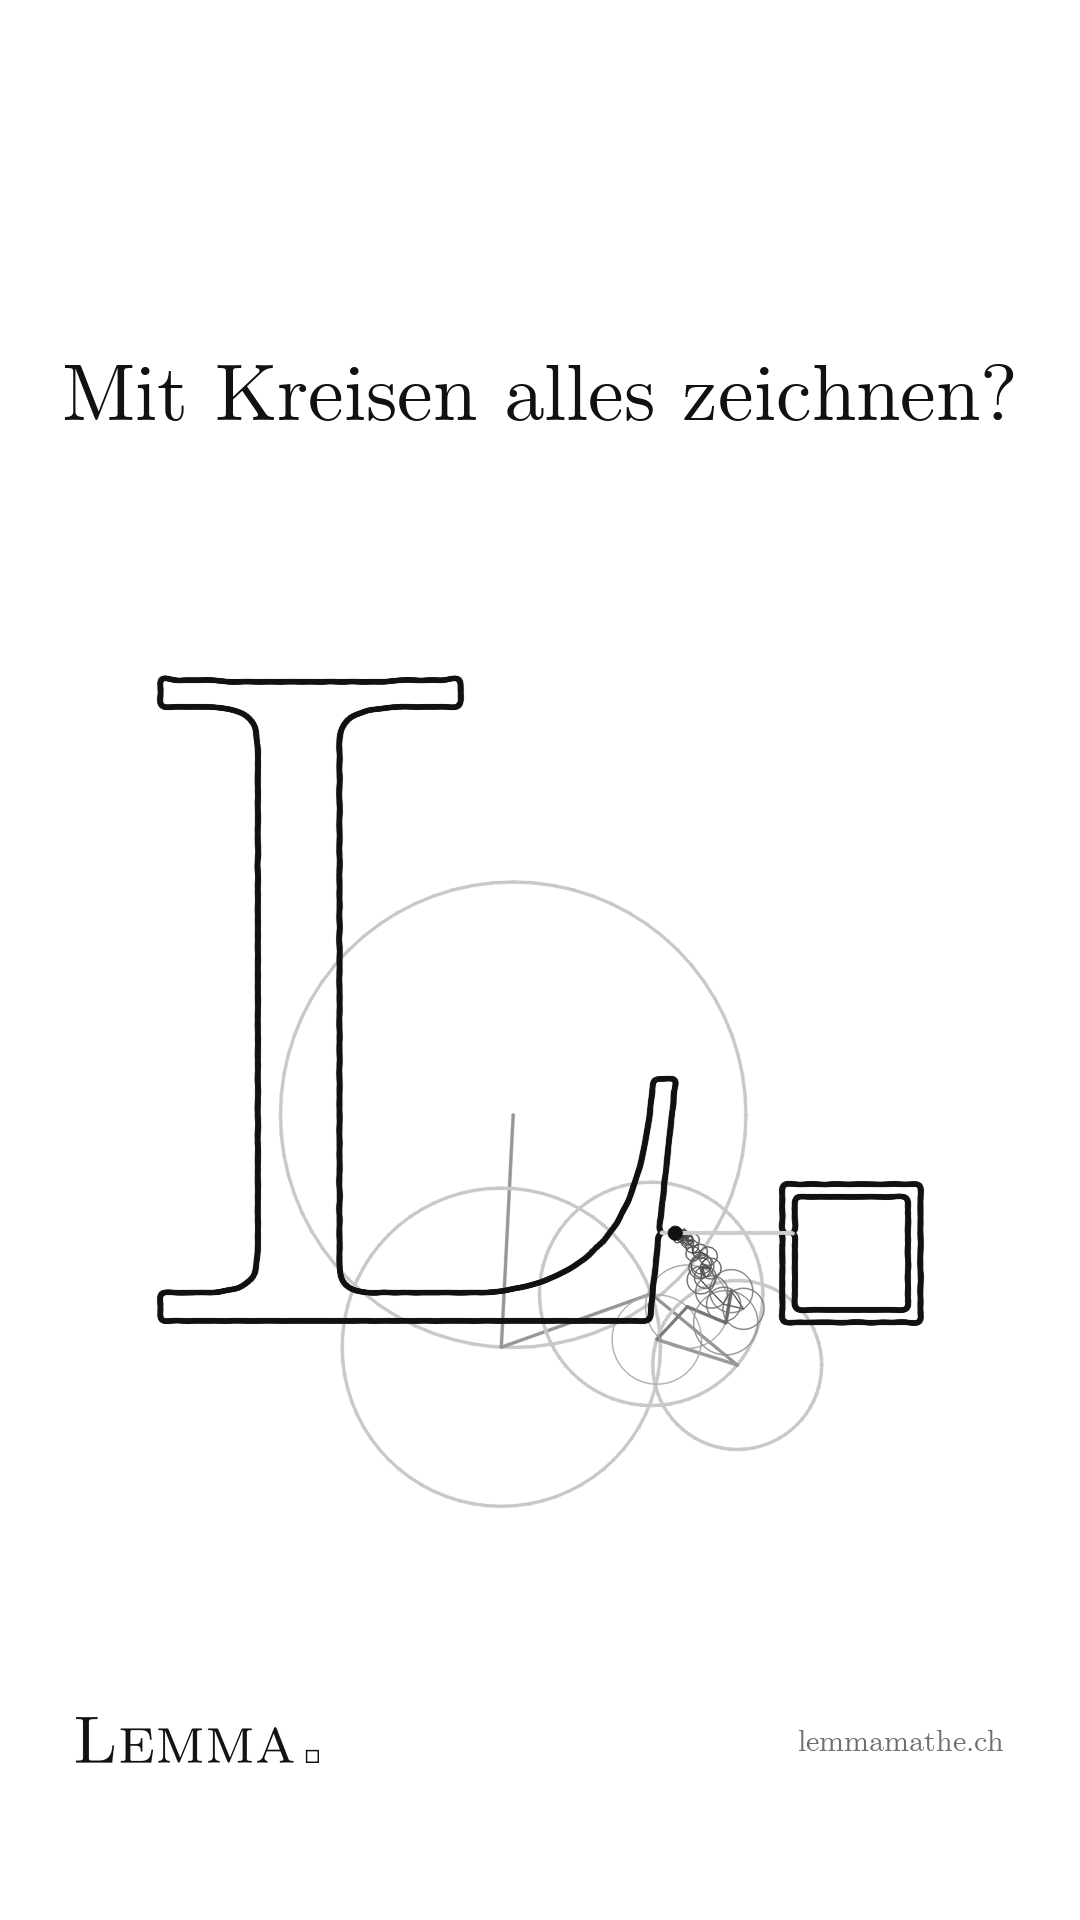
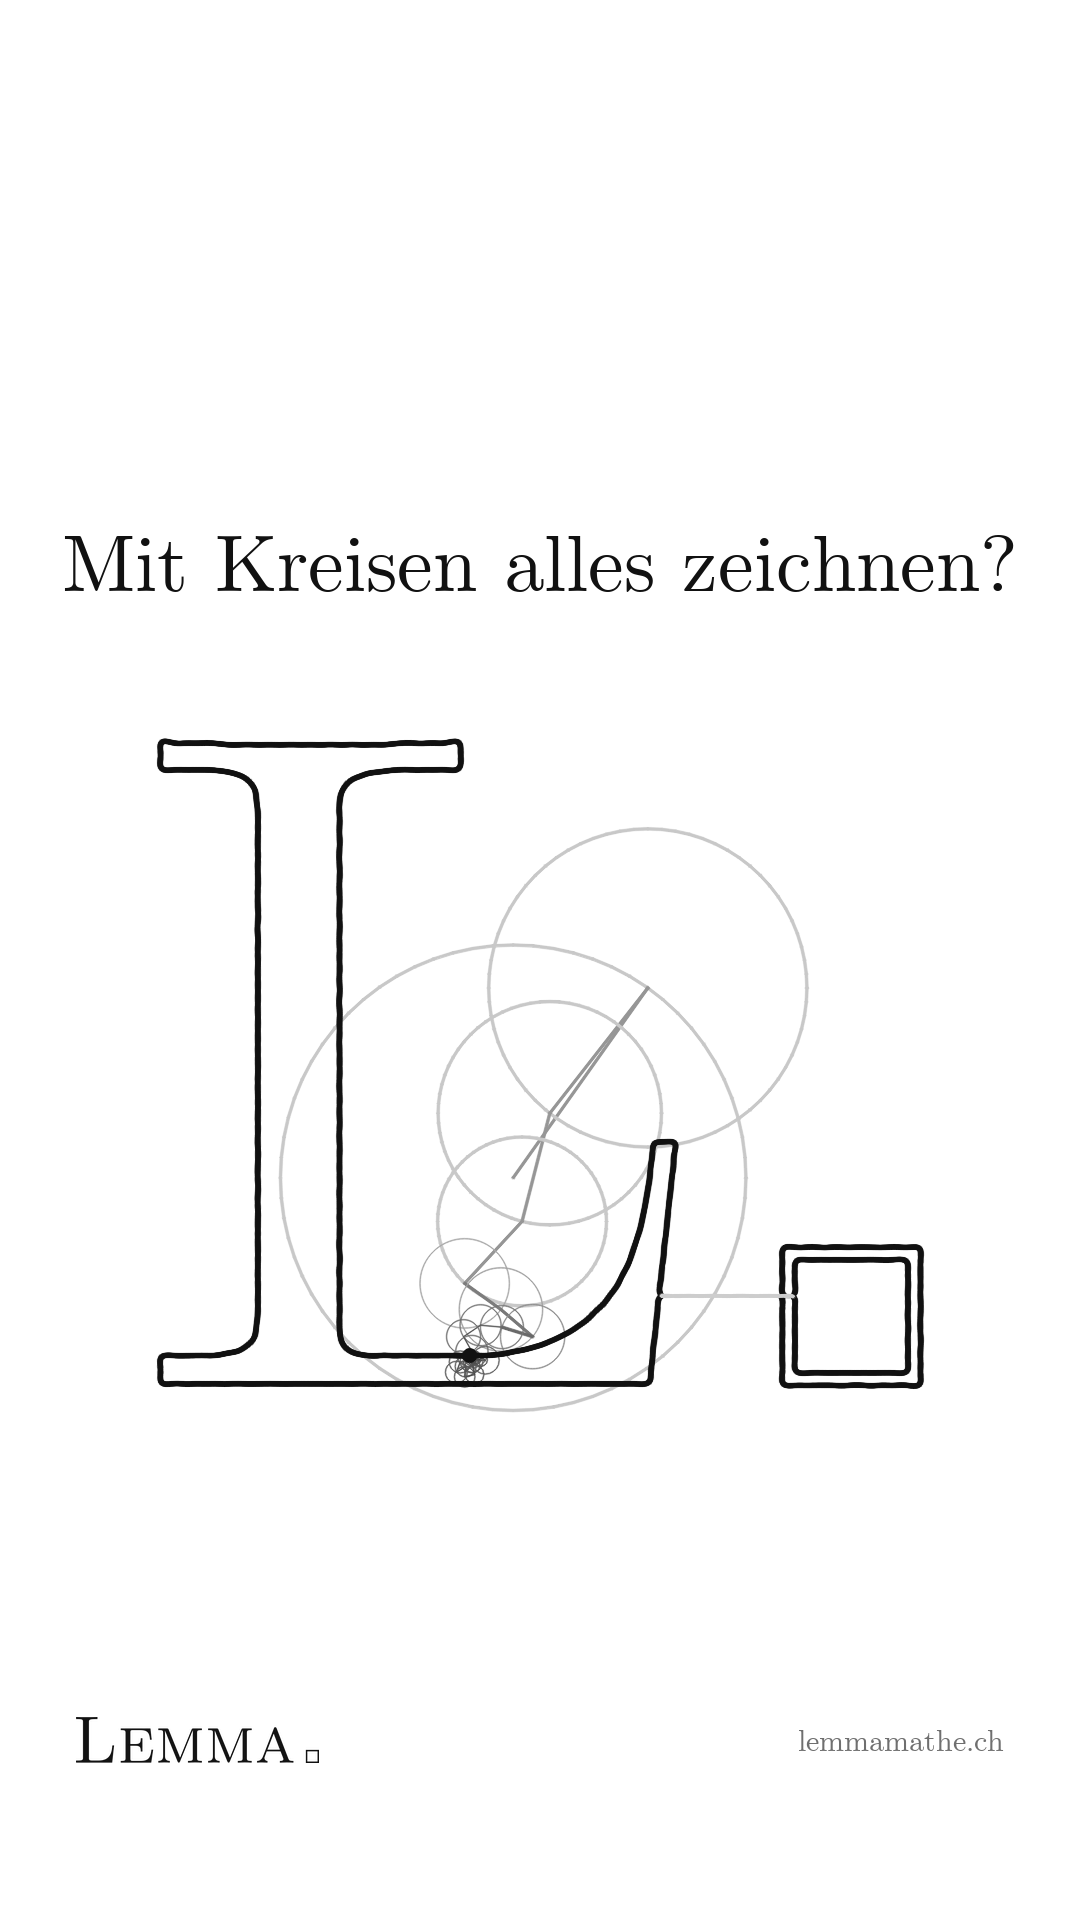
Fourier-Reel: Titelbild mit Überschrift und L mittig
Überschrift und L□ sitzen als Gruppe genau in der Bildmitte, die Kreise
liegen im L statt darunter. Die Entdecken-Kachel zeigt wieder den
mittleren Ausschnitt des Titelbilds.

diff --git a/index.html b/index.html
@@ -554,7 +554,7 @@
   .tile-art { left: .5rem; font-variant: small-caps; letter-spacing: .06em; }
   .tile-count { right: .5rem; }
   .tile .tile-count--video::before { display: none; }
-  .tile--video img { object-position: center 35%; }  /* Titelbild 9:16 – Titel unter den Etiketten, Bild ganz sichtbar im 4:5-Ausschnitt */
+  .tile--video img { object-position: center; }  /* Titelbild 9:16: Titel + Bild sitzen in der Bildmitte */
   .tile-count::before { content: ""; display: inline-block; width: .55em; height: .55em; margin-right: .3em; border: 1px solid currentColor; box-shadow: 2px -2px 0 -1px var(--white), 2px -2px 0 0 currentColor; vertical-align: .02em; }
 
   /* ---------- FAQ ---------- */
